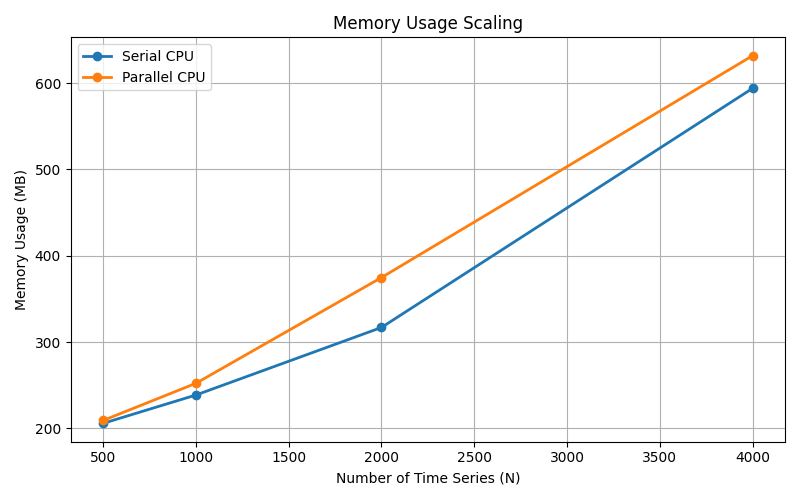
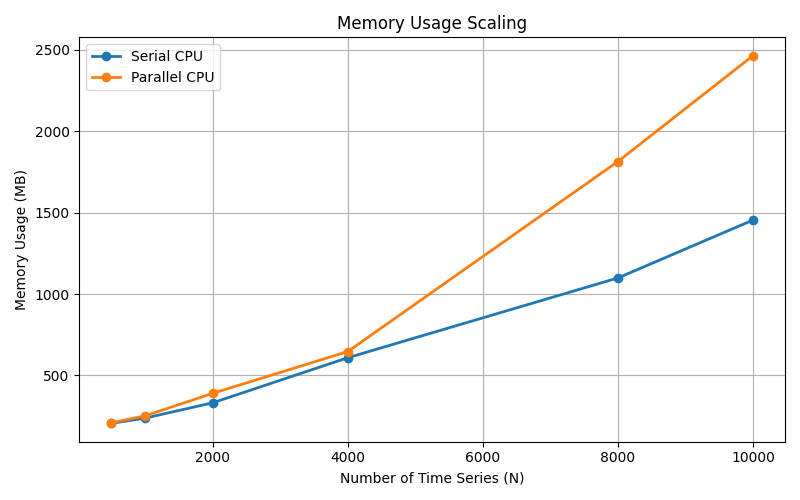
commit on March 16, minor changes

diff --git a/run_experiment.py b/run_experiment.py
@@ -46,7 +46,7 @@ def run_cpu_experiments():
     os.makedirs("results", exist_ok=True)
 
     # Experiment parameters
-    N_values = [500, 1000, 2000, 4000]  # Number of parallel time series
+    N_values = [500, 1000, 2000, 4000, 8000, 10000]  # Number of parallel time series
     T = 2000                             # Length of each time series
     num_workers = 4                      # Threads for parallel CPU computation
 
